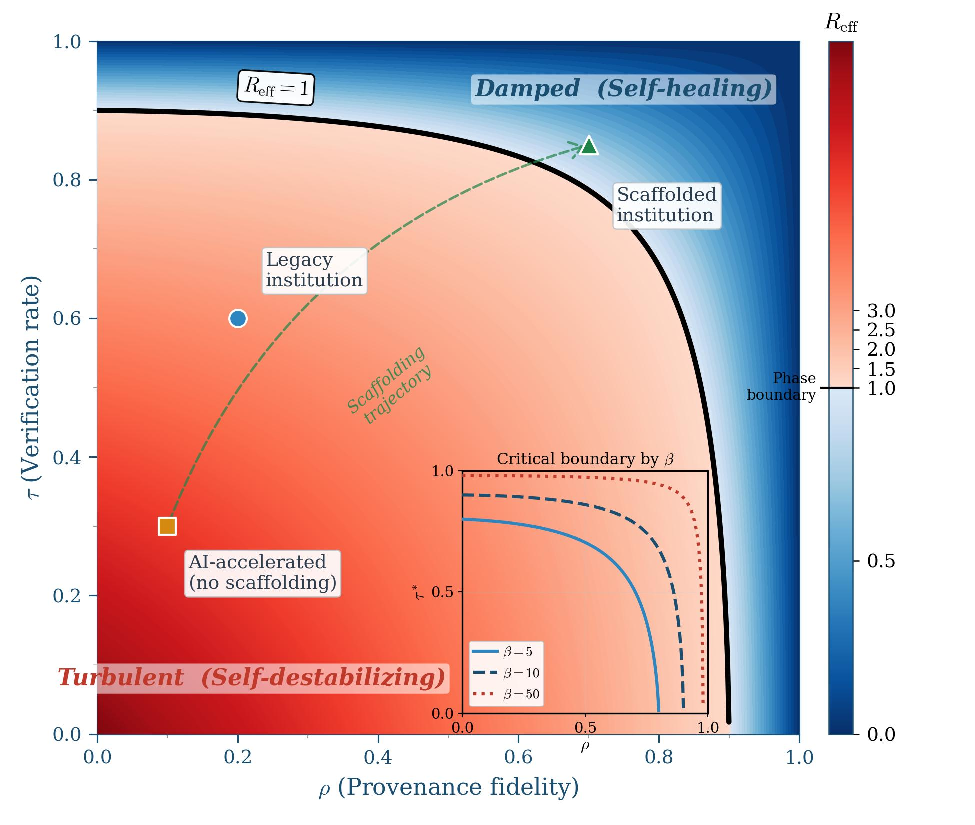
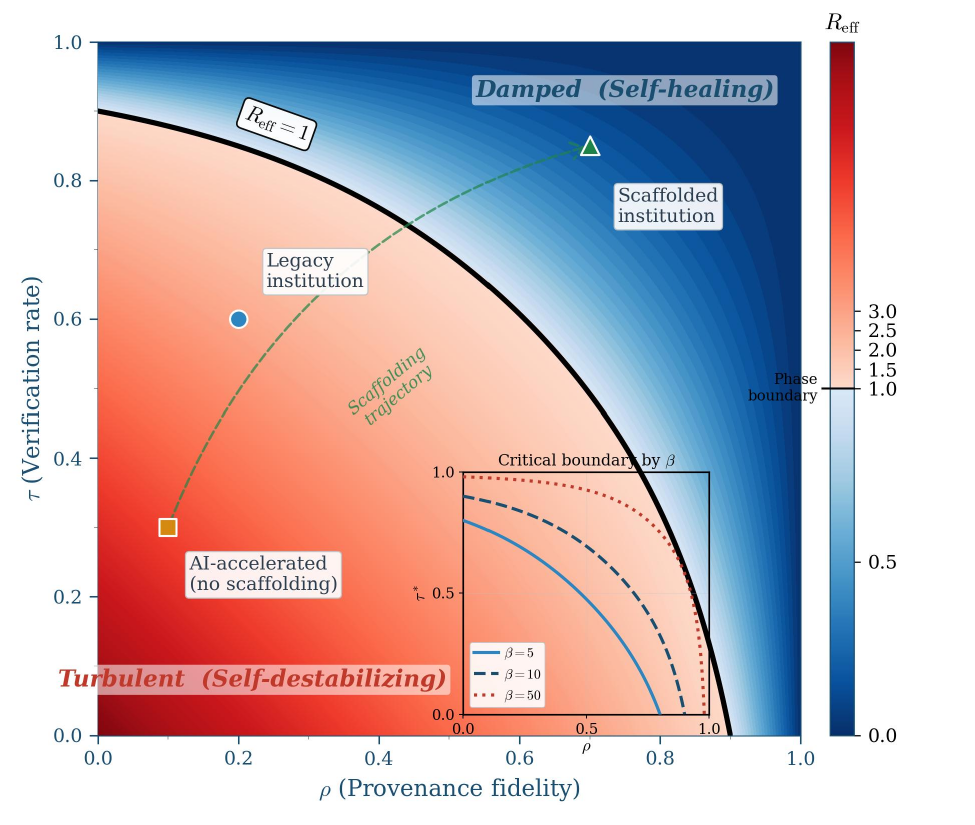
docs: update website for arXiv publication 2606.00235
- Replace 'arXiv (pending)' with live link to arXiv:2606.00235 across
  masthead, citation footnote, BibTeX, README, and CITATION.cff
- Correct synergy-term sign in constitutive law (1+gamma.rho.tau) ->
  (1-gamma.rho.tau) in formula block, Twitter meta, README, and the
  interactive R_eff widget (reff-explorer.js)
- Redefine gamma as correlated-detection coefficient in [0,1]; cap
  widget slider at 1
- Fix swapped/old H2/H3: H2 = anisotropy, H3 = threshold-crossing
  superadditivity (per v2 peer-review reformulation)
- Re-export stale fig02 phase-diagram PNG from r4 source (was plotting
  pre-correction boundary); add cache-busters to figure and JS
- Update status to Accepted at AGI-26 (Springer LNAI, forthcoming)

diff --git a/docs/index.html b/docs/index.html
@@ -13,7 +13,7 @@
   <meta property="og:image"       content="https://metamaterials.davidorban.com/assets/img/cover.jpg">
   <meta name="twitter:card"       content="summary_large_image">
   <meta name="twitter:title"      content="Civilizational Metamaterials — David Orban">
-  <meta name="twitter:description" content="A constitutive law for institutional coordination: R_eff = β(1−ρ)(1−τ)(1+γρτ). Phase transition between self-healing and self-destabilizing regimes.">
+  <meta name="twitter:description" content="A constitutive law for institutional coordination: R_eff = β(1−ρ)(1−τ)(1−γρτ). Phase transition between self-healing and self-destabilizing regimes.">
   <meta name="twitter:image"      content="https://metamaterials.davidorban.com/assets/img/cover.jpg">
 
   <!-- MathJax -->
@@ -52,8 +52,8 @@
         </p>
         <div class="button-row">
           <a class="btn btn-primary" href="civilizational-metamaterials-preprint.pdf">Preprint (PDF)</a>
-          <a class="btn btn-secondary" href="https://arxiv.org" id="arxiv-link"
-             title="arXiv link — will be updated on preprint submission">arXiv (pending)</a>
+          <a class="btn btn-secondary" href="https://arxiv.org/abs/2606.00235" id="arxiv-link"
+             target="_blank" rel="noopener" title="arXiv:2606.00235 (physics.soc-ph)">arXiv:2606.00235</a>
           <button class="btn btn-secondary" onclick="copyBibtex()" id="bibtex-btn">Copy BibTeX</button>
           <a class="btn btn-secondary" href="https://github.com/davidorban/civilizationalmetamaterials"
              target="_blank" rel="noopener">GitHub</a>
@@ -96,7 +96,7 @@
     </p>
 
     <div class="formula-block">
-      \[ R_{\text{eff}} = \beta \cdot (1-\rho) \cdot (1-\tau) \cdot (1 + \gamma\rho\tau) \]
+      \[ R_{\text{eff}} = \beta \cdot (1-\rho) \cdot (1-\tau) \cdot (1 - \gamma\rho\tau) \]
     </div>
 
     <p>where:</p>
@@ -104,7 +104,7 @@
       <li><strong>β</strong> — decision branching factor (AI-driven delegation tree width)</li>
       <li><strong>ρ</strong> ∈ [0, 1] — provenance fidelity (fraction of decisions with verifiable origin)</li>
       <li><strong>τ</strong> ∈ [0, 1] — verification rate (fraction of decisions actually checked)</li>
-      <li><strong>γ</strong> ≥ 0 — provenance–verification synergy (how much they reinforce each other)</li>
+      <li><strong>γ</strong> ∈ [0, 1] — correlated-detection coefficient (provenance and verification target overlapping failure modes; γ = 0 is the independent model, γ = 1 the maximum-correlation limit)</li>
     </ul>
     <p>
       When $R_{\text{eff}} &lt; 1$, unverified decisions decay — the institution is in the
@@ -125,7 +125,7 @@
     </p>
 
     <div class="hero-fig">
-      <img src="assets/img/fig02-phase-transition.png"
+      <img src="assets/img/fig02-phase-transition.png?v=2"
            alt="Phase transition diagram: R_eff as a function of provenance fidelity ρ and verification rate τ"
            onerror="this.style.display='none'; document.getElementById('fig-fallback').style.display='block'">
       <p id="fig-fallback" style="display:none; color:var(--text-muted); font-size:0.9rem; margin-top:8px;">
@@ -156,7 +156,7 @@
       </div>
       <div class="slider-row">
         <label for="slider-gamma">γ (synergy)</label>
-        <input type="range" id="slider-gamma" min="0" max="3" step="0.05" value="1">
+        <input type="range" id="slider-gamma" min="0" max="1" step="0.05" value="1">
         <span class="val" id="val-gamma">1.00</span>
       </div>
       <div id="reff-result" class="damped">—</div>
@@ -216,15 +216,21 @@
         </tr>
         <tr>
           <td>H2</td>
-          <td>Combined ρ and τ interventions are superadditive; the joint effect exceeds the sum
-          of individual effects (synergy term γρτ &gt; 0).</td>
-          <td>Additive or sub-additive joint effect.</td>
+          <td>Coordination response is <em>anisotropic</em>: within-unit (intra) and cross-boundary
+          (cross) effective reproduction numbers differ. A system can satisfy
+          $R_{\text{eff}}^{\text{intra}} &lt; 1$ while $R_{\text{eff}}^{\text{cross}} &gt; 1$ —
+          locally healthy yet failing at interfaces.</td>
+          <td>Isotropic response; no directional difference between intra- and cross-boundary cascades.</td>
         </tr>
         <tr>
           <td>H3</td>
-          <td>Coordination improvements are directional — within-unit effects differ from
-          cross-boundary effects (anisotropic tensor).</td>
-          <td>Isotropic response; no directional difference.</td>
+          <td>Combined ρ and τ interventions <em>cross</em> the critical boundary
+          $R_{\text{eff}} = 1$ at parameter combinations where neither single intervention does. In a
+          factorial (low/high ρ) × (low/high τ) design, only the high–high condition produces
+          self-healing cascade behaviour. This is a threshold-crossing claim, not a
+          sum-of-reductions claim.</td>
+          <td>A single-intervention condition also crosses into self-healing, or the high–high
+          condition fails to.</td>
         </tr>
         <tr>
           <td>H4</td>
@@ -262,17 +268,22 @@
     <h2>Cite this work</h2>
     <button class="copy-btn" onclick="copyBibtex()">Copy</button>
     <pre id="bibtex-block">@misc{orban2026civilizationalmetamaterials,
-  author       = {David Orban},
-  title        = {Civilizational Metamaterials:
-                  Engineering Coordination Under Capability
-                  Gradients and Structural Turbulence},
-  year         = {2026},
-  howpublished = {Manuscript under review at AGI-26},
-  note         = {Revision 3},
-  doi          = {10.5281/zenodo.19710482},
-  url          = {https://doi.org/10.5281/zenodo.19710482}
+  author        = {David Orban},
+  title         = {Civilizational Metamaterials:
+                   Engineering Coordination Under Capability
+                   Gradients and Structural Turbulence},
+  year          = {2026},
+  eprint        = {2606.00235},
+  archivePrefix = {arXiv},
+  primaryClass  = {physics.soc-ph},
+  doi           = {10.5281/zenodo.19710482},
+  note          = {Accepted for presentation at AGI-26
+                   (Springer LNAI, forthcoming)},
+  url           = {https://arxiv.org/abs/2606.00235}
 }</pre>
     <p style="margin-top:12px; font-size:0.9rem; color:var(--text-muted);">
+      arXiv: <a href="https://arxiv.org/abs/2606.00235" target="_blank" rel="noopener">2606.00235</a>
+      &nbsp;·&nbsp;
       DOI: <a href="https://doi.org/10.5281/zenodo.19710482" target="_blank" rel="noopener">10.5281/zenodo.19710482</a>.
       Machine-readable citation in
       <a href="https://github.com/davidorban/civilizationalmetamaterials/blob/main/CITATION.cff"
@@ -313,13 +324,13 @@ make -C paper figures      # regenerate all 10 figures from source</pre>
         <a href="https://github.com/davidorban/civilizationalmetamaterials" target="_blank" rel="noopener">GitHub</a>
       </span>
       <span id="last-updated" style="color:var(--text-muted); font-size:0.82rem;">
-        Last updated: 2026-04-23
+        Last updated: 2026-06-02
       </span>
     </div>
   </div>
 </footer>
 
-<script src="assets/js/reff-explorer.js"></script>
+<script src="assets/js/reff-explorer.js?v=2"></script>
 <script>
 function copyText(id) {
   var text = document.getElementById(id).textContent;

diff --git a/docs/assets/js/reff-explorer.js b/docs/assets/js/reff-explorer.js
@@ -1,6 +1,6 @@
 /* R_eff interactive explorer
  *
- * R_eff = β · (1 − ρ) · (1 − τ) · (1 + γ ρ τ)
+ * R_eff = β · (1 − ρ) · (1 − τ) · (1 − γ ρ τ)
  *
  * Reads sliders #slider-beta, #slider-rho, #slider-tau, #slider-gamma.
  * Writes computed value and regime label to #reff-result.
@@ -9,7 +9,7 @@
   'use strict';
 
   function reff(beta, rho, tau, gamma) {
-    return beta * (1 - rho) * (1 - tau) * (1 + gamma * rho * tau);
+    return beta * (1 - rho) * (1 - tau) * (1 - gamma * rho * tau);
   }
 
   function update() {

diff --git a/README.md b/README.md
@@ -4,7 +4,7 @@
 
 David Orban · [ORCID 0009-0004-4954-1147](https://orcid.org/0009-0004-4954-1147) · Independent Researcher
 
-Status: **Under review at AGI-26** (Springer LNCS/LNAI). Revision 3.
+Status: **Accepted at AGI-26** (Springer LNAI, forthcoming). Preprint: [arXiv:2606.00235](https://arxiv.org/abs/2606.00235).
 
 Website: <https://metamaterials.davidorban.com>
 
@@ -17,10 +17,10 @@ Governance must transition from a normative discipline to an engineering discipl
 Drawing on metamaterials, where emergent macro-properties arise from designed microstructure, the paper proposes a phenomenological constitutive law for institutional coordination:
 
 ```
-R_eff = β · (1 − ρ) · (1 − τ) · (1 + γ ρ τ)
+R_eff = β · (1 − ρ) · (1 − τ) · (1 − γ ρ τ)
 ```
 
-where β is the decision branching factor, ρ is provenance fidelity, τ is the verification rate, and γ captures provenance–verification synergy. A sharp phase transition separates **self-healing** (`R_eff < 1`) from **self-destabilizing** (`R_eff > 1`) regimes, and the sub-critical condition can be engineered by institutional design.
+where β is the decision branching factor, ρ is provenance fidelity, τ is the verification rate, and γ ∈ [0, 1] is the correlated-detection coefficient (provenance and verification target overlapping failure modes). A sharp phase transition separates **self-healing** (`R_eff < 1`) from **self-destabilizing** (`R_eff > 1`) regimes, and the sub-critical condition can be engineered by institutional design.
 
 ## Four contributions
 
@@ -34,11 +34,11 @@ where β is the decision branching factor, ρ is provenance fidelity, τ is the 
 | ID | Prediction | What would falsify it |
 |---|---|---|
 | H1 | Panels crossing `R_eff = 1` exhibit a sharp regime change | No regime change observed at threshold |
-| H2 | Combined ρ and τ interventions are superadditive | Additive or sub-additive effects only |
-| H3 | Coordination improvements are directional (anisotropic) | Isotropic response to interventions |
+| H2 | Coordination response is anisotropic (within-unit vs. cross-boundary differ) | Isotropic response; no directional difference |
+| H3 | Combined ρ and τ interventions cross `R_eff = 1` where neither single one does (threshold-crossing) | A single intervention also crosses, or high–high fails to |
 | H4 | Withdrawal of interventions is asymmetrically costly (hysteresis) | Symmetric recovery on withdrawal |
 
-Full details: [`paper/preprint/civilizational-metamaterials-agi26-r3.pdf`](paper/preprint/) · [arXiv link pending]
+Full details: [arXiv:2606.00235](https://arxiv.org/abs/2606.00235) · [`paper/civilizational-metamaterials-agi26-r4.pdf`](paper/)
 
 ## Repository map
 
@@ -64,22 +64,24 @@ Python 3.11+, a TeXLive distribution (tested with 2024), and `make` are required
 
 ## Cite this work
 
-BibTeX (under-review placeholder):
+BibTeX:
 
 ```bibtex
 @misc{orban2026civilizationalmetamaterials,
-  author       = {David Orban},
-  title        = {Civilizational Metamaterials:
-                  Engineering Coordination Under Capability Gradients and Structural Turbulence},
-  year         = {2026},
-  howpublished = {Manuscript under review at AGI-26},
-  note         = {Revision 3},
-  doi          = {10.5281/zenodo.19710482},
-  url          = {https://doi.org/10.5281/zenodo.19710482}
+  author        = {David Orban},
+  title         = {Civilizational Metamaterials:
+                   Engineering Coordination Under Capability Gradients and Structural Turbulence},
+  year          = {2026},
+  eprint        = {2606.00235},
+  archivePrefix = {arXiv},
+  primaryClass  = {physics.soc-ph},
+  doi           = {10.5281/zenodo.19710482},
+  note          = {Accepted for presentation at AGI-26 (Springer LNAI, forthcoming)},
+  url           = {https://arxiv.org/abs/2606.00235}
 }
 ```
 
-A machine-readable citation is in [`CITATION.cff`](CITATION.cff). Zenodo archival DOI: [10.5281/zenodo.19710482](https://doi.org/10.5281/zenodo.19710482). On acceptance, the `status` field flips to `Accepted, AGI-26. To appear in Springer LNCS/LNAI` and an arXiv identifier is added.
+A machine-readable citation is in [`CITATION.cff`](CITATION.cff). arXiv: [2606.00235](https://arxiv.org/abs/2606.00235). Zenodo archival DOI: [10.5281/zenodo.19710482](https://doi.org/10.5281/zenodo.19710482). Accepted for presentation at AGI-26; to appear in Springer LNAI.
 
 ## Collaboration
 
